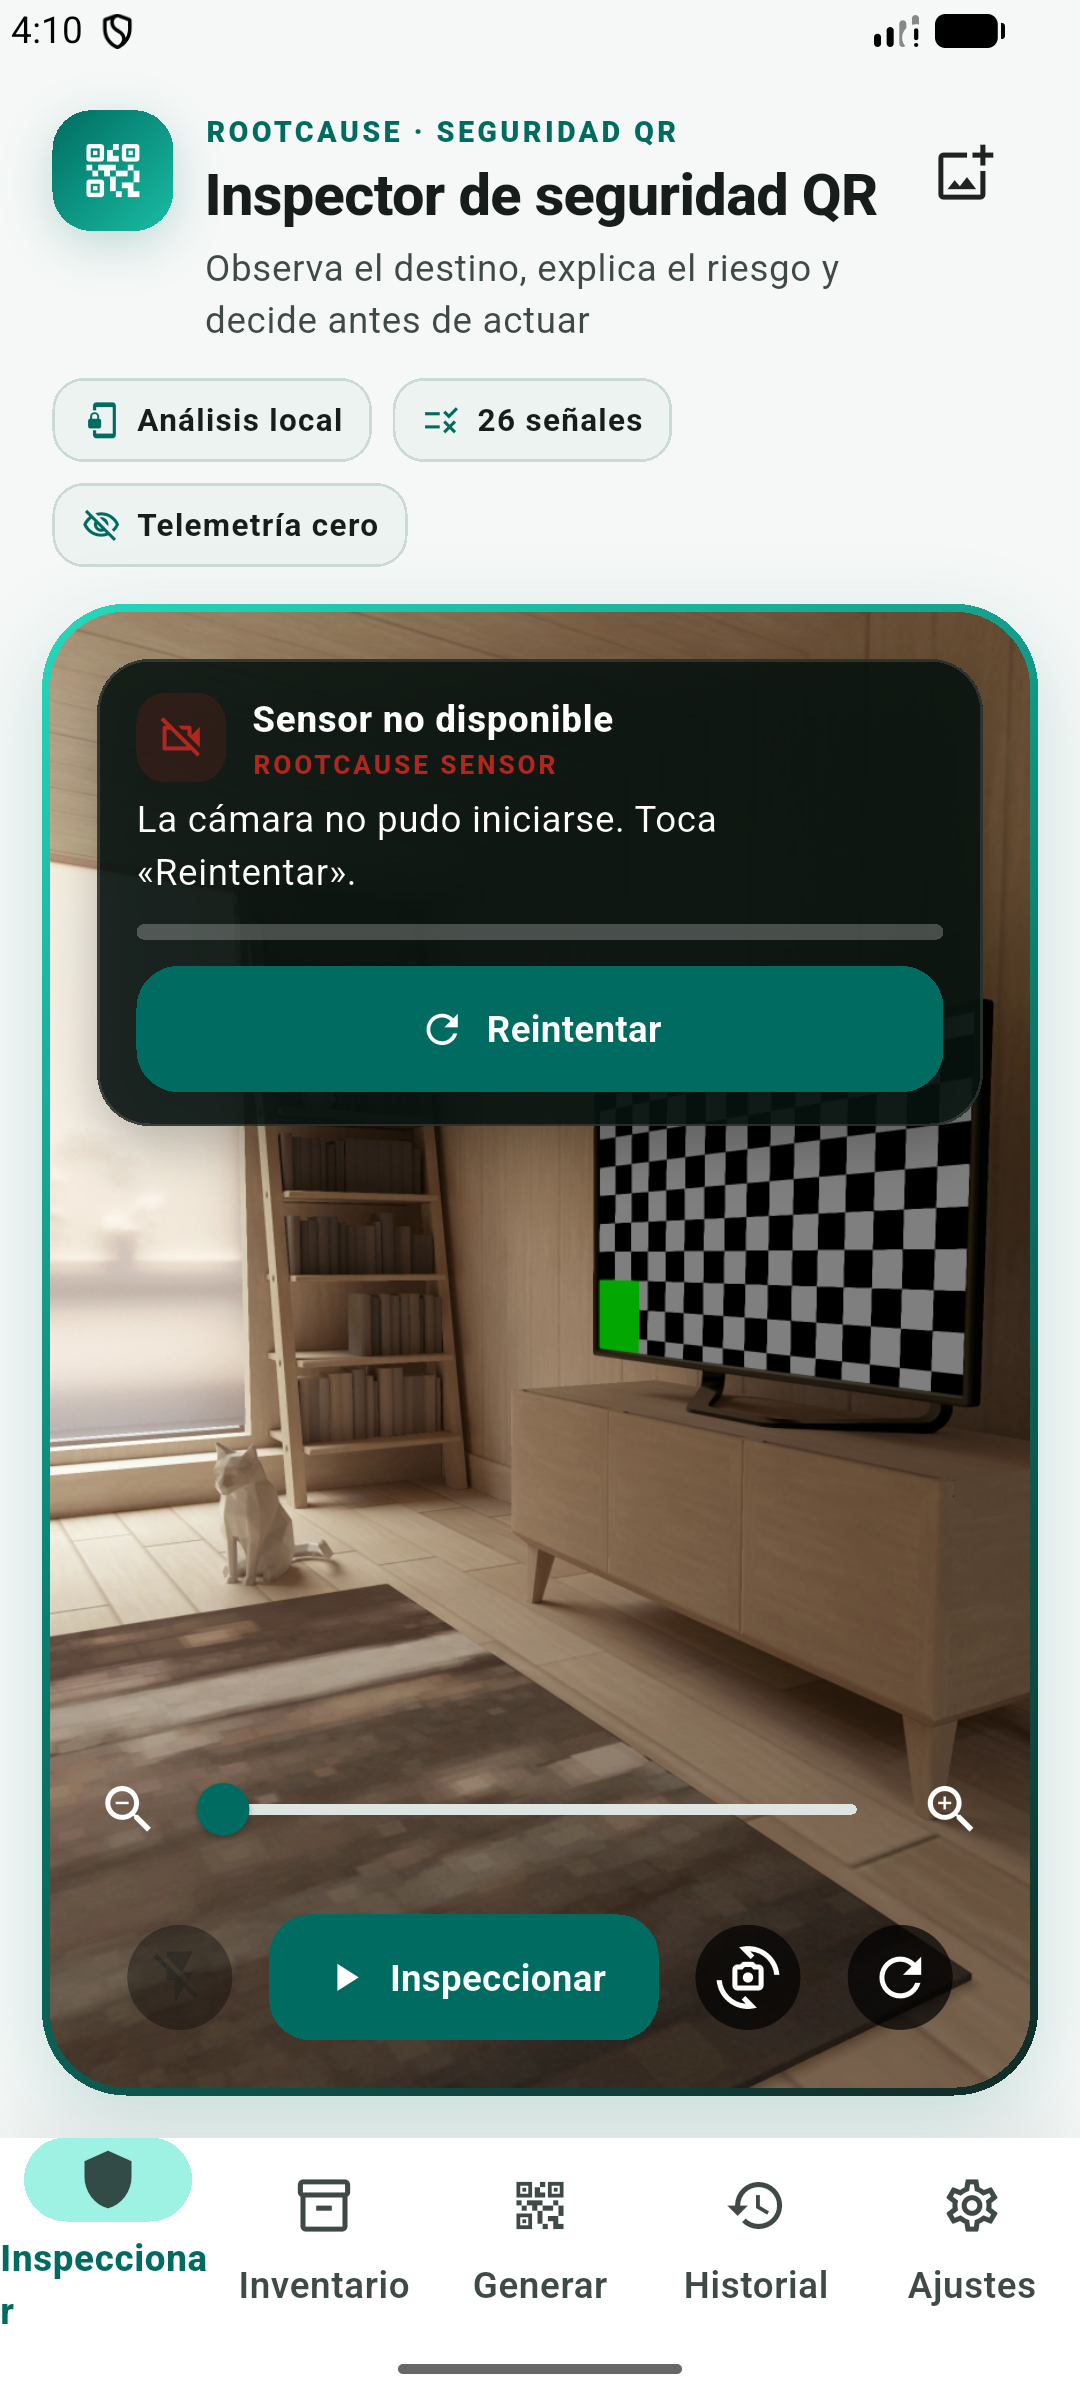
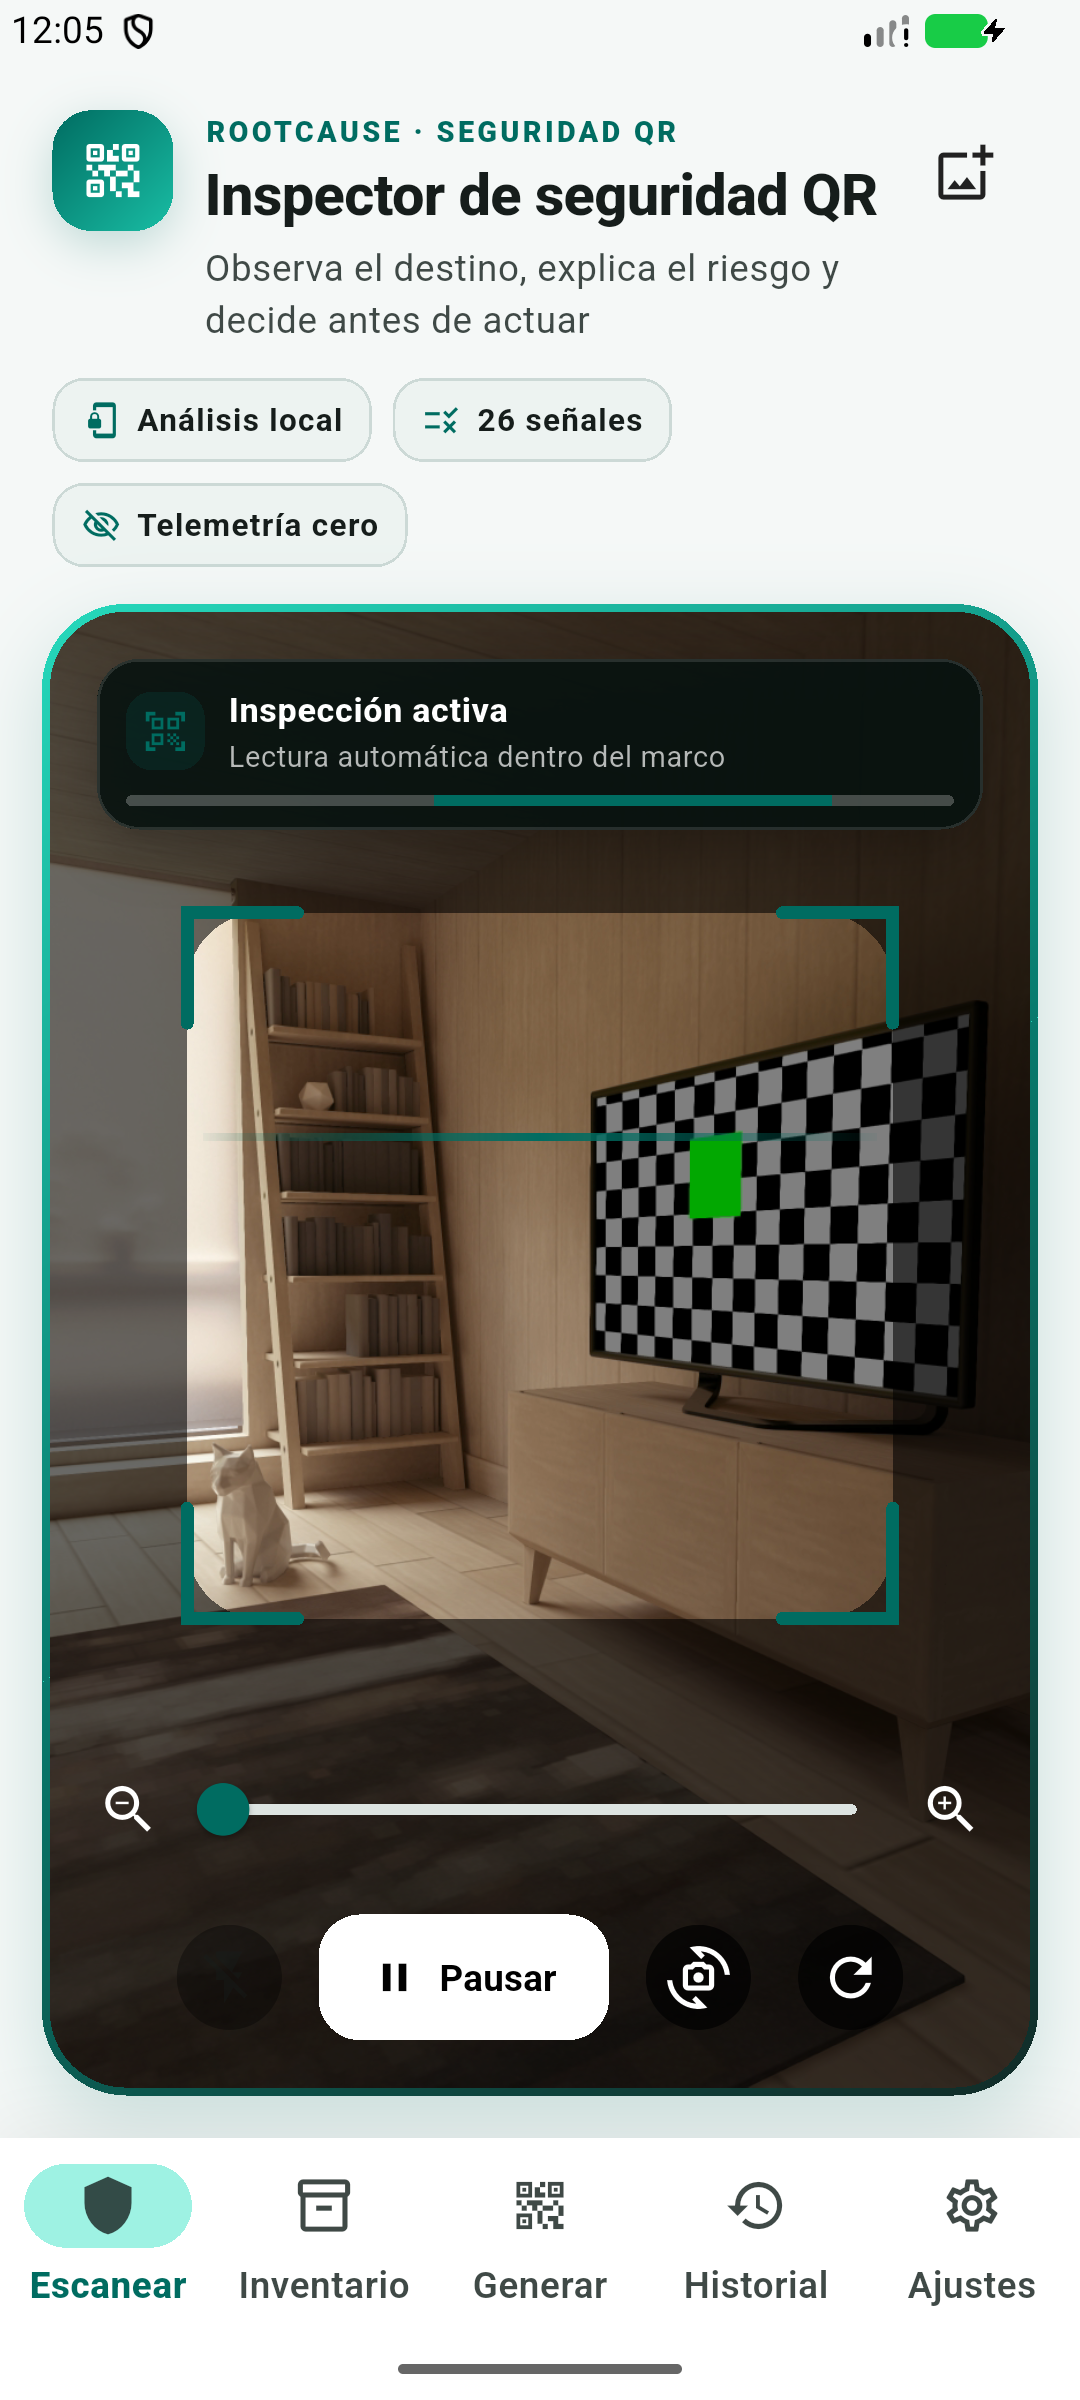
docs: publish verified scanner interaction evidence

diff --git a/landing/index.html b/landing/index.html
@@ -166,7 +166,7 @@
         <h2 class="section-title">Lo que se afirma tiene una comprobación visible</h2>
         <p class="section-sub">
           La validación distingue la coherencia offline de las pruebas de runtime.
-          La CI pública vuelve a ejecutar el contrato, el análisis, 77 casos y los builds.
+          La CI pública vuelve a ejecutar el contrato, el análisis, 81 casos y los builds.
         </p>
         <div class="table-wrap">
           <table>
@@ -174,8 +174,8 @@
             <tbody>
               <tr><td><strong>Contrato causal</strong></td><td>26 ids entre motor, textos, esquema, fixtures y política</td><td class="ok">Validado offline</td></tr>
               <tr><td><strong>Privacidad de evidencia</strong></td><td>Omisión de carga, campos y URL efectiva por defecto</td><td class="ok">Cubierto por contrato</td></tr>
-              <tr><td><strong>Apps móviles</strong></td><td>Análisis, 77 pruebas y builds Android/iOS</td><td class="ok">CI pública en verde</td></tr>
-              <tr><td><strong>Dispositivo físico</strong></td><td>Cámara, biometría, poca luz y ciclo de vida</td><td class="warn">Pendiente antes de release</td></tr>
+              <tr><td><strong>Apps móviles</strong></td><td>Análisis, 81 pruebas y builds Android/iOS</td><td class="ok">CI pública en verde</td></tr>
+              <tr><td><strong>Dispositivo físico</strong></td><td>Cámara, biometría, poca luz y ciclo de vida</td><td class="warn">Pendiente antes de tienda</td></tr>
             </tbody>
           </table>
         </div>
@@ -195,7 +195,7 @@
           <li><strong>Resultado normal</strong>“Sin señales locales” nunca significa “destino seguro”.</li>
         </ul>
         <div class="note" style="margin-top:1.5rem">
-          <strong>Estado 0.1.0:</strong> contrato, estructura, análisis, 77 pruebas
+          <strong>Estado 0.1.0:</strong> contrato, estructura, análisis, 81 pruebas
           y builds Android/iOS en verde. El APK Android v0.1.0 está
           publicado; la matriz amplia de hardware físico y las tiendas siguen pendientes.
         </div>
@@ -229,6 +229,14 @@
           </article>
         </div>
         <div class="shots" aria-label="Capturas reales de la aplicación Android v0.1.0">
+          <figure>
+            <img src="assets/android/android-inspector-home.png" alt="Escáner RootCause leyendo automáticamente con el marco QR despejado" loading="lazy" />
+            <figcaption>Lectura automática · sin pulsar el visor</figcaption>
+          </figure>
+          <figure>
+            <img src="assets/android/android-inspector-paused.png" alt="Escáner RootCause pausado con botón Reanudar explícito" loading="lazy" />
+            <figcaption>Pausa explícita · Reanudar sin gestos ocultos</figcaption>
+          </figure>
           <figure>
             <img src="assets/android/android-analysis-result.png" alt="Resultado real de seguridad QR ejecutándose en Android" loading="lazy" />
             <figcaption>Análisis real · hechos y límites separados</figcaption>

diff --git a/tool/validate_structure.py b/tool/validate_structure.py
@@ -175,6 +175,7 @@ def check_landing() -> None:
     generated = {
         "assets/icon-512.png": ROOT / "assets" / "launcher" / "web" / "Icon-512.png",
         "assets/android/android-inspector-home.png": ROOT / "docs" / "images" / "android" / "android-inspector-home.png",
+        "assets/android/android-inspector-paused.png": ROOT / "docs" / "images" / "android" / "android-inspector-paused.png",
         "assets/android/android-generator.png": ROOT / "docs" / "images" / "android" / "android-generator.png",
         "assets/android/android-settings.png": ROOT / "docs" / "images" / "android" / "android-settings.png",
         "assets/android/android-analysis-result.png": ROOT / "docs" / "images" / "android" / "android-analysis-result.png",

diff --git a/docs/quality/SCANNER_UX.md b/docs/quality/SCANNER_UX.md
@@ -1,9 +1,8 @@
 # Comportamiento del escáner en cámara
 
-> Documento heredado del subsistema de captura de Universal Code Scanner
-> 1.1.0. Los resultados de compilación y pruebas al final corresponden a esa
-> fuente; el estado de la derivación RootCause está en
-> [`../../VALIDATION.md`](../../VALIDATION.md).
+> Registro vivo de la interfaz de cámara de RootCause QR Inspector 0.1.0. La
+> procedencia del subsistema heredado se conserva, pero los estados, controles
+> y comprobaciones descritos aquí corresponden al producto RootCause actual.
 
 Este documento explica **qué hace la pantalla de lectura en cada estado**, por
 qué se eligió ese comportamiento y qué convenciones del sector se adoptaron.
@@ -42,15 +41,17 @@ está analizando cuadros de verdad.
 
 | Estado | Título | Barra | Acción ofrecida |
 |---|---|---|---|
-| `starting` | «Iniciando cámara…» | En movimiento | — |
-| `scanning` | «Inspección activa» | En movimiento + línea que recorre el marco | Botón «Pausar inspección» |
-| `paused` | «Inspección en pausa» | Detenida y vacía | «Reanudar inspección» + toque en cualquier punto de la vista |
+| `starting` | «Preparando inspección…» | En movimiento | Botón desactivado «Preparando» |
+| `scanning` | «Inspección activa» | En movimiento + línea que recorre el marco | Botón «Pausar» |
+| `paused` | «Inspección en pausa» | Detenida y vacía | Botón «Reanudar»; el visor no es un control oculto |
 | `unavailable` | «Sensor no disponible» | Detenida, en color de error | «Reintentar» (reconstruye el controlador) |
 
 El escaneo **sigue siendo automático**: no hay que pulsar nada para leer un
 código, que es lo que hace cualquier lector del sector. Lo que se añadió es la
 respuesta permanente a la pregunta «¿está escaneando ahora mismo?», más un botón
-explícito para pausar y reanudar cuando el usuario quiere controlarlo.
+explícito para pausar y reanudar cuando el usuario quiere controlarlo. La barra
+es compacta, usa una línea por texto con elipsis y reserva el área central para
+el QR incluso en vistas de 288×320, 400×560 y 430×760.
 
 Con **movimiento reducido** activado en Ajustes, la barra se dibuja llena y
 quieta, y el marco no barre la línea: el estado sigue siendo legible sin
@@ -89,12 +90,12 @@ ZXing—, y estado en esta aplicación:
 |---|---|---|
 | Lectura automática sin pulsar nada | Sí | Sí |
 | Indicador visible de «escaneando» | No | **Barra en movimiento + línea que recorre el marco** |
-| Botón explícito de activar/pausar | Icono sin etiqueta | **Botón con texto «Inspeccionar» / «Pausar inspección»** |
+| Botón explícito de activar/pausar | Icono sin etiqueta | **Botón con texto «Pausar» / «Reanudar»** |
 | Pitido de lectura conseguida | Dependiente de los sonidos táctiles del sistema | **Tono propio empaquetado** |
 | Vibración de confirmación | Sí | Sí |
 | Recuperación cuando la cámara no arranca | No existía | **«Reintentar» y «Reiniciar cámara»** |
 | Mensaje específico de permiso denegado | No | Sí |
-| Reanudar tocando la vista previa | No | Sí |
+| Reanudar tocando la vista previa | No | **No; se eliminó el gesto oculto** |
 | Linterna | Sí | Sí |
 | Enfoque al tocar | Sí | Sí |
 | Zoom | Deslizador | Deslizador |
@@ -111,15 +112,18 @@ decisión no se toca.
 
 ---
 
-## 5. Qué se comprobó en la fuente heredada
+## 5. Qué se comprobó en RootCause QR Inspector
 
 | Comprobación | Resultado |
 |---|---|
 | `flutter analyze --fatal-infos` | 0 hallazgos |
-| `flutter test` | 57 de 57 en verde |
-| Pruebas nuevas de estado de escaneo | 9 (barra, marco, sonido y vibración) |
-| `flutter build apk --debug` | Compila con la dependencia de audio añadida |
+| `flutter test --coverage` | 81 de 81 en verde |
+| Geometría responsive | Marco sin solaparse con estado/controles en tres proporciones, desde 288×320 |
+| Texto ampliado | Barra compacta sin overflow a 320×640 y escala 1,6 |
+| `flutter build apk --release` | APK 0.1.0 generado por el mismo workflow verde |
+| Emulador Android 36.1, 1080×2400 | Lectura automática → Pausar → Reanudar → lectura automática |
 
-Estos resultados no se atribuyen automáticamente a RootCause QR Inspector. La
-derivación debe ejecutar su propio gate Flutter y repetir la lectura en
-teléfono físico antes de publicar un binario.
+La jerarquía accesible del APK instalado confirmó `Lectura detenida` y
+`Reanudar` durante la pausa, y `Lectura automática` y `Pausar` después de
+reanudar. No contiene la antigua instrucción «toca la pantalla». La matriz de
+teléfonos físicos continúa siendo necesaria antes de una publicación en tienda.

diff --git a/README.md b/README.md
@@ -149,20 +149,26 @@ Estas son capturas reales del APK publicado en el
 instalado desde GitHub en un emulador Android 36.1 de este equipo. No son
 mockups ni imágenes generadas.
 
-| Análisis local | Generador local | Privacidad y accesibilidad |
+| Lectura automática | Pausa explícita | Análisis local |
 |---|---|---|
-| <img src="docs/images/android/android-analysis-result.png" alt="Resultado real del análisis local de un QR en Android" width="260"> | <img src="docs/images/android/android-generator.png" alt="Generador local de QR abierto en Android" width="260"> | <img src="docs/images/android/android-settings.png" alt="Ajustes de privacidad y accesibilidad abiertos en Android" width="260"> |
-| La app importó el QR, separó lo observado de lo no comprobado y mostró `0/100` sin llamarlo seguro. | El generador produjo localmente un QR para `https://example.com`. | Ajustes de apariencia, inspección, privacidad y seguridad disponibles. |
+| <img src="docs/images/android/android-inspector-home.png" alt="Cámara de RootCause leyendo automáticamente dentro de un marco despejado" width="260"> | <img src="docs/images/android/android-inspector-paused.png" alt="Cámara de RootCause pausada con botón Reanudar explícito" width="260"> | <img src="docs/images/android/android-analysis-result.png" alt="Resultado real del análisis local de un QR en Android" width="260"> |
+| La cámara analiza automáticamente: no exige pulsar la pantalla y el estado compacto no tapa el QR. | `Pausar` detiene la cámara y ofrece `Reanudar`; tocar el visor no es una instrucción ni una acción oculta. | La app separa lo observado de lo no comprobado y no presenta un resultado normal como garantía. |
 
-Comprobación del artefacto público: `adb install -r` devolvió `Success`, Android
-abrió `dev.vladimiracuna.rootcause_qr_inspector`, `apksigner` verificó la firma
-técnica del APK con Signature Scheme v2 y el SHA-256 local coincidió con el publicado:
[1 lines of base64/hex data omitted]
+| Generador local | Privacidad y accesibilidad |
+|---|---|
+| <img src="docs/images/android/android-generator.png" alt="Generador local de QR abierto en Android" width="260"> | <img src="docs/images/android/android-settings.png" alt="Ajustes de privacidad y accesibilidad abiertos en Android" width="260"> |
+| El generador produjo localmente un QR para `https://example.com`. | Ajustes de apariencia, inspección, privacidad y seguridad disponibles. |
+
+Comprobación del artefacto actualizado: instalación limpia `Success`, Android
+abrió `dev.vladimiracuna.rootcause_qr_inspector` 0.1.0, `apksigner` verificó la
+firma técnica con Signature Scheme v2 y el SHA-256 del APK es
[1 lines of base64/hex data omitted]
 Esto no equivale a firma comercial de Play Store/App Store. La firma y
 distribución de este producto se evalúan únicamente para Android e iOS;
 Windows, macOS y Linux no son plataformas objetivo.
-La cámara virtual del AVD no entregó sensor y la app mostró un error recuperable;
-la importación desde Photo Picker sí completó el análisis de extremo a extremo.
+La cámara virtual del AVD entregó imagen: se verificaron lectura automática,
+`Pausar`, `Reanudar` y retorno efectivo a `Inspección activa`. La jerarquía
+accesible no contiene la antigua instrucción de tocar la pantalla.
 
 ## 🛡 Las señales que observa en 0.1.0
 

diff --git a/docs/releases/v0.1.0.md b/docs/releases/v0.1.0.md
@@ -11,25 +11,29 @@ separa hechos de hipótesis y permite exportar evidencia redactada.
 - `rootcause-qr-inspector-v0.1.0-android.apk.sha256`: checksum para comprobar
   que el archivo descargado coincide con el publicado.
 
-El APK se construye desde la etiqueta `v0.1.0`; GitHub publica una atestación de
-procedencia vinculada al workflow. Es una descarga directa instalable y no una
-entrega mediante Google Play.
+El asset 0.1.0 fue actualizado sin cambiar la versión para corregir la interfaz
+de cámara. El binario se validó en el commit `81e2bb8` mediante el workflow
+público de calidad antes de reemplazar el archivo del Release. Es una descarga
+directa instalable y no una entrega mediante Google Play.
 
 ## Verificación realizada
 
-- APK público descargado: 92.775.668 bytes.
[1 lines of base64/hex data omitted]
+- APK actualizado: 92.792.084 bytes.
[1 lines of base64/hex data omitted]
 - `apksigner verify`: correcto; Android Signature Scheme v2, un firmante.
-- `adb install -r`: `Success` en Android 36.1 x86_64.
+- instalación limpia: `Success` en Android 36.1 x86_64. Una actualización
+  sobre una firma de CI anterior requiere desinstalar primero esa copia.
 - paquete abierto: `dev.vladimiracuna.rootcause_qr_inspector`, versión `0.1.0`.
 - Generador y Ajustes recorridos; QR generado, importado desde Photo Picker y
   analizado de extremo a extremo; capturas reales conservadas en la documentación.
+- Cámara virtual activa: lectura automática, pausa explícita, reanudación y
+  retorno a lectura comprobados; no existe una acción oculta al tocar el visor.
 
 ## Prueba funcional recomendada
 
 1. Instala el APK y concede cámara solo al comenzar una inspección en vivo.
 2. En **Generar**, crea y comparte un PNG con `https://example.com/documento`.
-3. En **Inspeccionar**, importa ese PNG: debe mostrar una lectura normal y
+3. En **Escanear**, importa ese PNG: debe mostrar una lectura normal y
    recordar que normal no significa destino garantizado.
 4. Repite con `https://banco.example@evil.example/acceso`: debe explicar
    `authority-userinfo` y `credential-lure-path`, exigir confirmación y no abrir

diff --git a/docs/quality/DEVICE_TEST_MATRIX.md b/docs/quality/DEVICE_TEST_MATRIX.md
@@ -27,10 +27,11 @@ Los recursos reproducibles están en `test_assets/manifest.json`. Las simbologí
 
 | Entorno | Artefacto | Instalación/inicio | Generar/importar/analizar | Ajustes | Cámara |
 |---|---|---|---|---|---|
[2 lines of base64/hex data omitted]
 | Android 36.1 x86_64, viewport tablet 1600×2560/320 dpi | mismo APK público `v0.1.0` | reinstalación `Success`; `MainActivity` visible | Generador visible y adaptable, sin desbordes | navegación inferior y acciones visibles | hardware físico de tablet no comprobado |
 
 Evidencia visual: [`android-inspector-home.png`](../images/android/android-inspector-home.png),
+[`android-inspector-paused.png`](../images/android/android-inspector-paused.png),
 [`android-generator.png`](../images/android/android-generator.png) y
 [`android-settings.png`](../images/android/android-settings.png), además del
 [`resultado de análisis`](../images/android/android-analysis-result.png) y el

diff --git a/docs/MANUAL_USUARIO.md b/docs/MANUAL_USUARIO.md
@@ -25,14 +25,16 @@ una regla local aplicable.
 
 ## Flujo recomendado
 
-1. Abre **Inspeccionar** y concede cámara solo si usarás captura en vivo.
+1. Abre **Escanear** y concede cámara solo si usarás captura en vivo.
 2. Enmarca un código o elige una imagen/PDF iniciado por ti.
 3. Espera el estado visible de lectura; el tono confirma una captura, no la
    seguridad del contenido.
-4. Revisa tipo, destino, campos interpretados y hallazgos.
-5. Distingue hechos de hipótesis antes de continuar.
-6. Si el caso lo exige, exporta **Evidencia** en modo redactado.
-7. Abre el destino solo cuando también lo hayas validado por otra fuente.
+4. No necesitas tocar el visor para activar la lectura. Usa **Pausar** y
+   **Reanudar** cuando quieras detener o recuperar explícitamente la cámara.
+5. Revisa tipo, destino, campos interpretados y hallazgos.
+6. Distingue hechos de hipótesis antes de continuar.
+7. Si el caso lo exige, exporta **Evidencia** en modo redactado.
+8. Abre el destino solo cuando también lo hayas validado por otra fuente.
 
 ## Cómo leer el resultado
 

diff --git a/docs/CI_GITHUB.md b/docs/CI_GITHUB.md
@@ -6,7 +6,7 @@
 flowchart LR
     P["push / pull request"] --> Q["Flutter quality"]
     Q --> S["estructura + contrato"]
-    S --> A["analyze + 77 casos"]
+    S --> A["analyze + 81 casos"]
     A --> B["build web + Android"]
     B --> R["SBOM + licencias + checksums"]
     T["tag vX.Y.Z"] --> V["APK release + verificación"]
